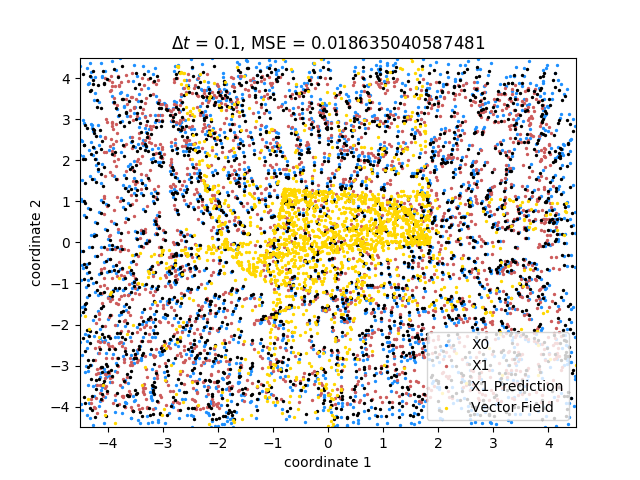
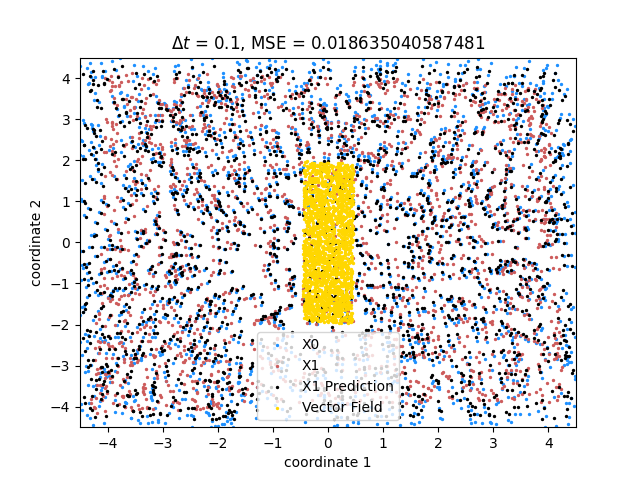
task3 some staff

diff --git a/task3/task3.py b/task3/task3.py
@@ -12,17 +12,19 @@ def linear_prediction(X_0, X_1, dt):
     X_1_prediction = NU * dt + X_0
     mean_squared_error = mse(X_1, X_1_prediction)
 
-    return X_1_prediction, mean_squared_error, V
+    return X_1_prediction, mean_squared_error, NU
 
 
-def nonlinear_prediction(X_0, X_1, L, epsilon=0.1761680514483659):
+def nonlinear_prediction(X_0, X_1, L, dt, epsilon=0.1761680514483659):
     # D = distance_matrix(X_0)
     # np.sqrt(np.max(D)) * 0.05
-    C, phis = nonlinear_approximation(X_0, X_1, epsilon, L)
-    X_1_prediction = np.matmul(phis, C)
+    V = (X_1 - X_0) / dt  # ???
+    C, phis = nonlinear_approximation(X_0, V, epsilon, L)
+    NU = np.matmul(phis, C)
+    X_1_prediction = NU * dt + X_0
     mean_squared_error = mse(X_1, X_1_prediction)
 
-    return X_1_prediction, mean_squared_error
+    return X_1_prediction, NU, mean_squared_error
 
 
 def part1(X_0, X_1):
@@ -51,45 +53,52 @@ def part1(X_0, X_1):
     plt.savefig('plots/task_3_part_1_approximation.png')
     plt.show()
 
-    dts = np.linspace(0.00001, 1, 100000)
-    mse = np.zeros(dts.shape)
+    dts = np.linspace(0.000000000001, 1, 100)
+    mses = np.zeros(dts.shape)
     for i, dt in enumerate(dts):
-        _, mse[i], _ = linear_prediction(X_0, X_1, dt)
-        print("dt" + str(dt) + " mse[" + str(i) + "]:" + str(mse[i]))
+        # _, mse[i], _ = linear_prediction(X_0, X_1, dt)
+        X_1_prediction = V * dt + X_0
+        mses[i] = mse(X_1, X_1_prediction)
+        print("dt" + str(dt) + " mse[" + str(i) + "]:" + str(mses[i]))
 
     fig = plt.figure()
     ax = fig.add_subplot()
-    ax.scatter(dts, mse, color='dodgerblue', s=2)
+    ax.scatter(dts, mses, color='dodgerblue', s=2)
     plt.xlabel("$\Delta t$")
     plt.ylabel("MSE")
     plt.legend()
     plt.savefig('plots/task_3_part_1_mse_vs_dt.png')
     plt.show()
 
+    # dt does not affect the mean square error
+
 
 def part2(X_0, X_1):
     epsilon = 0.1761680514483659
+    dt = 0.1
 
     # Plot true value and approximated values
-    X_1_prediction_L_100, mse_L_100 = nonlinear_prediction(X_0, X_1, 100, epsilon)
-    X_1_prediction_L_1000, mse_L_1000 = nonlinear_prediction(X_0, X_1, 1000, epsilon)
+    X_1_prediction_L_100, V_L_100, mse_L_100 = nonlinear_prediction(X_0, X_1, 100, dt, epsilon)
+    X_1_prediction_L_1000, V_L_1000, mse_L_1000 = nonlinear_prediction(X_0, X_1, 1000, dt, epsilon)
 
     fig = plt.figure()
     ax = fig.add_subplot()
     ax.scatter(X_1[:, 0], X_1[:, 1], color='indianred', s=2, label="X1")
+    ax.scatter(V_L_1000[:, 0], V_L_1000[:, 1], color='gold', s=2, label="Vector field")
     ax.scatter(X_1_prediction_L_100[:, 0], X_1_prediction_L_100[:, 1], color='black', s=2,
                label="X_1_prediction(L=100, MSE={:.3f})".format(mse_L_100))
     ax.scatter(X_1_prediction_L_1000[:, 0], X_1_prediction_L_1000[:, 1], color='dodgerblue', s=2,
                label="X_1_prediction(L=1000, MSE={:.3f})".format(mse_L_1000))
     ax.set_xlim([-4.5, 4.5])
     ax.set_ylim([-4.5, 4.5])
-    ax.set_title('$\epsilon$ = {}'.format(epsilon))
+    ax.set_title('$\Delta t$ = {}, $\epsilon$ = {}'.format(dt, epsilon))
     plt.xlabel("coordinate 1")
     plt.ylabel("coordinate 2")
-    plt.savefig('plots/task_3_part_2_approximation.png')
     plt.legend()
+    plt.savefig('plots/task_3_part_2_approximation.png')
     plt.show()
 
+    '''
     # Plot MSE vs L Graph
     Ls = np.arange(1, 2000, 1)
     mse = np.zeros(Ls.shape)
@@ -104,6 +113,7 @@ def part2(X_0, X_1):
     plt.legend()
     plt.savefig('plots/task_3_part_2_mse_vs_l.png')
     plt.show()
+    '''
 
     """
     ?How do the errors differ to the linear approximation?
@@ -115,13 +125,33 @@ def part2(X_0, X_1):
 
     # Why?
     """
+    plot_part3_mse_vs_dt(V_L_1000, mse_L_1000, X_0, X_1, start=0.000000000001, stop=0.3)
+    plot_part3_mse_vs_dt(V_L_1000, mse_L_1000, X_0, X_1, start=0.000000000001, stop=1)
+
+
+def plot_part3_mse_vs_dt(V_L_1000, mse_L_1000, X_0, X_1, start, stop):
+    dts = np.linspace(start, stop, 100)
+    mses = np.zeros(dts.shape)
+    for i, dt in enumerate(dts):
+        X_1_prediction_L_1000 = V_L_1000 * dt + X_0
+        mses[i] = mse(X_1, X_1_prediction_L_1000)
+        print("dt" + str(dt) + " mse[" + str(i) + "]:" + str(mses[i]))
+    fig = plt.figure()
+    ax = fig.add_subplot()
+    ax.scatter(dts, mses, color='dodgerblue', s=2)
+    ax.set_title('Vector Field for L=1000, MSE = {:.3f}'.format(mse_L_1000))
+    plt.xlabel("$\Delta t$")
+    plt.ylabel("MSE")
+    plt.legend()
+    plt.savefig('plots/task_3_part_3_mse_vs_dt' + str(start) + '_' + str(stop) + '.png')
+    plt.show()
 
 
 def main():
     X_0 = read_file("nonlinear_vectorfield_data_x0.txt")  # (2000, 2)
     X_1 = read_file("nonlinear_vectorfield_data_x1.txt")  # (2000, 2)
 
-    # part1(X_0, X_1)
+    part1(X_0, X_1)
     part2(X_0, X_1)
 
 

diff --git a/task2/task2.py b/task2/task2.py
@@ -18,7 +18,7 @@ def part1(X_0, X_1):
     fig, ax = plt.subplots(1, 1)
     ax.scatter(X_0[:, 0], X_0[:, 1], color='indianred', s=2, label="X0")
     ax.scatter(X_1[:, 0], X_1[:, 1], color='dodgerblue', s=2, label="X1")
-    ax.scatter(V[:, 0], V[:, 1], color='black', s=2, label="V")
+    ax.scatter(NU[:, 0], NU[:, 1], color='black', s=2, label="Vector Field")
     ax.set_xlabel('x')
     ax.set_ylabel('f(x)')
     plt.legend()
